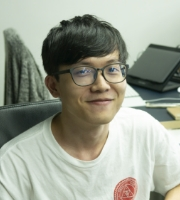
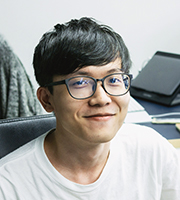
Update photos #22

diff --git a/src/i18n/messages/en_US.js b/src/i18n/messages/en_US.js
@@ -191,6 +191,21 @@ const en_US = {
             "photo": "/images/lyle.jpg",
             "name": "Lyle Chang",
             "job": "Software Engineer",
+        },
+        {
+            "photo": "/images/eric.jpg",
+            "name": "Eric Tsai",
+            "job": "Project Manager",
+        },
+        {
+            "photo": "/images/wayne.jpg",
+            "name": "Wayne Jeng",
+            "job": "Software Engineer",
+        },
+        {
+            "photo": "/images/ryan.jpg",
+            "name": "Ryan Ho",
+            "job": "Software Engineer",
         }
     ]
 }
